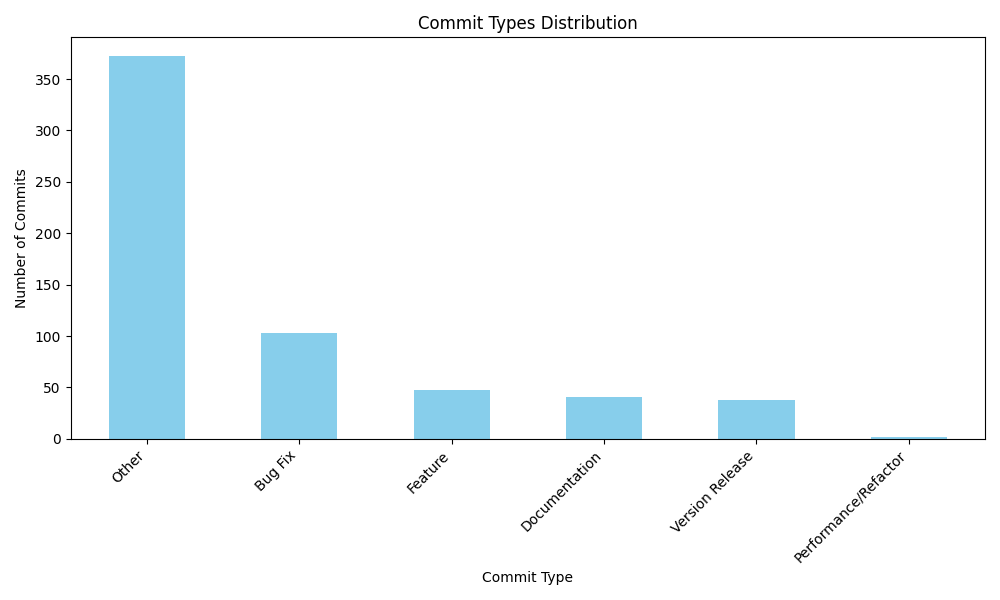
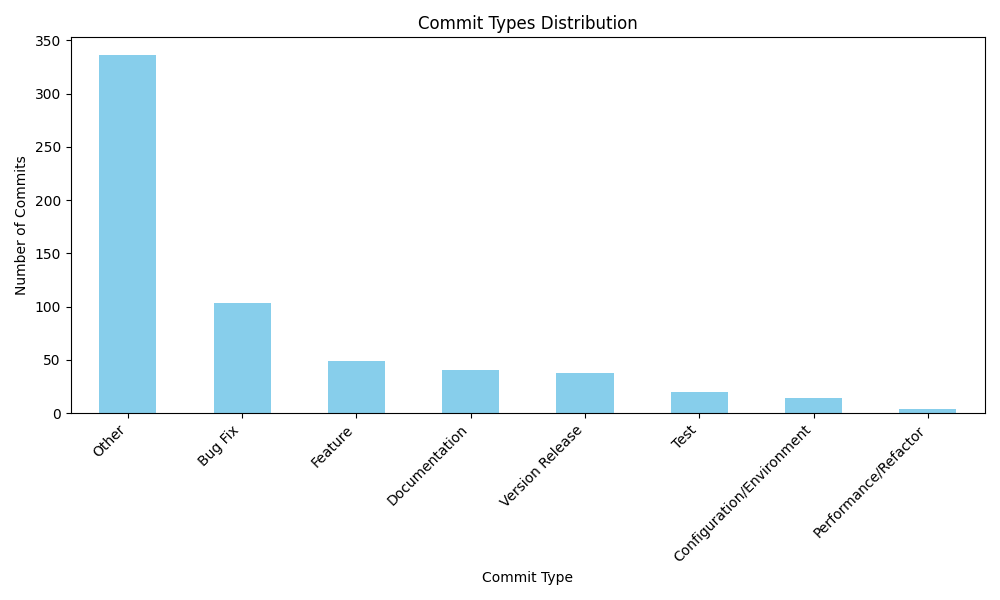
获取提交记录，简单分析

diff --git a/analysis_commit_history.py b/analysis_commit_history.py
@@ -64,6 +64,8 @@ def analyze_version_releases(df):
 
 import re
 
+import re
+
 def classify_commit_type(message):
     """
     细化提交类型的分类规则
@@ -77,20 +79,32 @@ def classify_commit_type(message):
         return 'Version Release'
 
     # 功能增加或改进
-    elif 'feature' in message or 'add' in message or 'new' in message or 'implement' in message:
+    elif 'feature' in message or 'add' in message or 'new' in message or 'implement' in message or 'enhance' in message:
         return 'Feature'  # 功能/新特性
 
     # Bug 修复
-    elif 'fix' in message or 'bug' in message or 'patch' in message or 'error' in message:
+    elif 'fix' in message or 'bug' in message or 'patch' in message or 'error' in message or 'hotfix' in message:
         return 'Bug Fix'  # Bug 修复
 
     # 性能优化或重构
-    elif 'performance' in message or 'optimize' in message or 'refactor' in message:
+    elif 'performance' in message or 'optimize' in message or 'refactor' in message or 'improve' in message:
         return 'Performance/Refactor'  # 性能优化或重构
 
     # 文档更新
-    elif 'doc' in message or 'documentation' in message or 'readme' in message or 'update docs' in message:
+    elif 'doc' in message or 'documentation' in message or 'readme' in message or 'update docs' in message or 'docs' in message:
         return 'Documentation'  # 文档更新
+
+    # 测试
+    elif 'test' in message or 'tests' in message or 'unittest' in message or 'integration' in message:
+        return 'Test'  # 测试
+
+    # 配置或环境更新
+    elif 'config' in message or 'environment' in message or 'docker' in message or 'ci' in message or 'ci/cd' in message:
+        return 'Configuration/Environment'  # 配置/环境
+
+    # 安全更新
+    elif 'security' in message or 'vulnerability' in message or 'exploit' in message or 'fix security' in message:
+        return 'Security'  # 安全更新
 
     # 其他类型（无法明确分类的）
     else:
